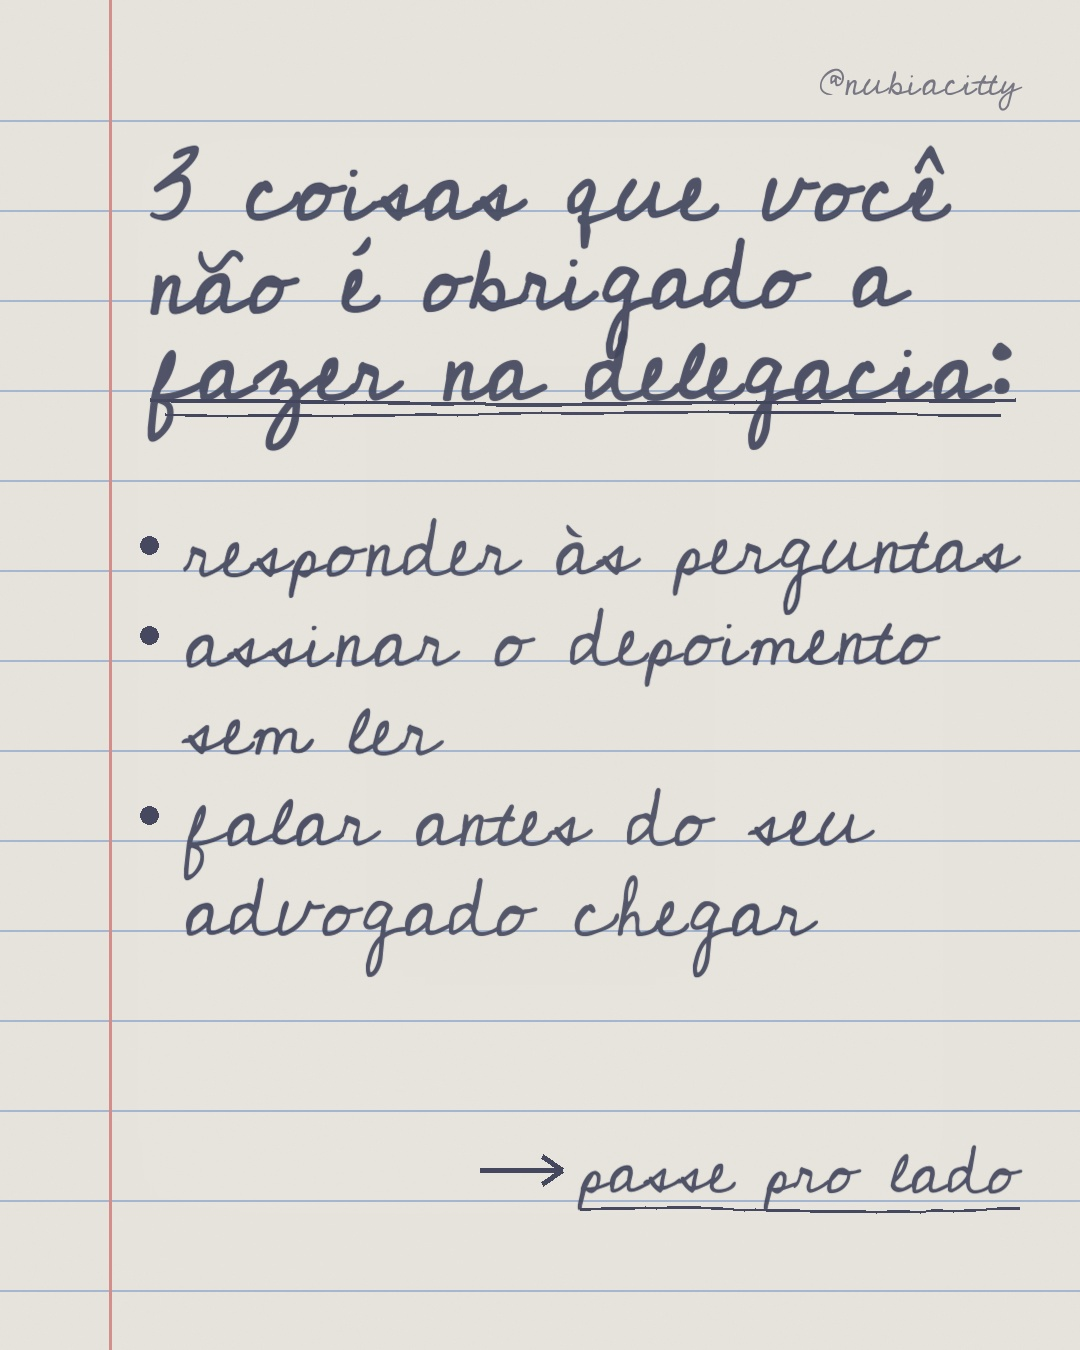
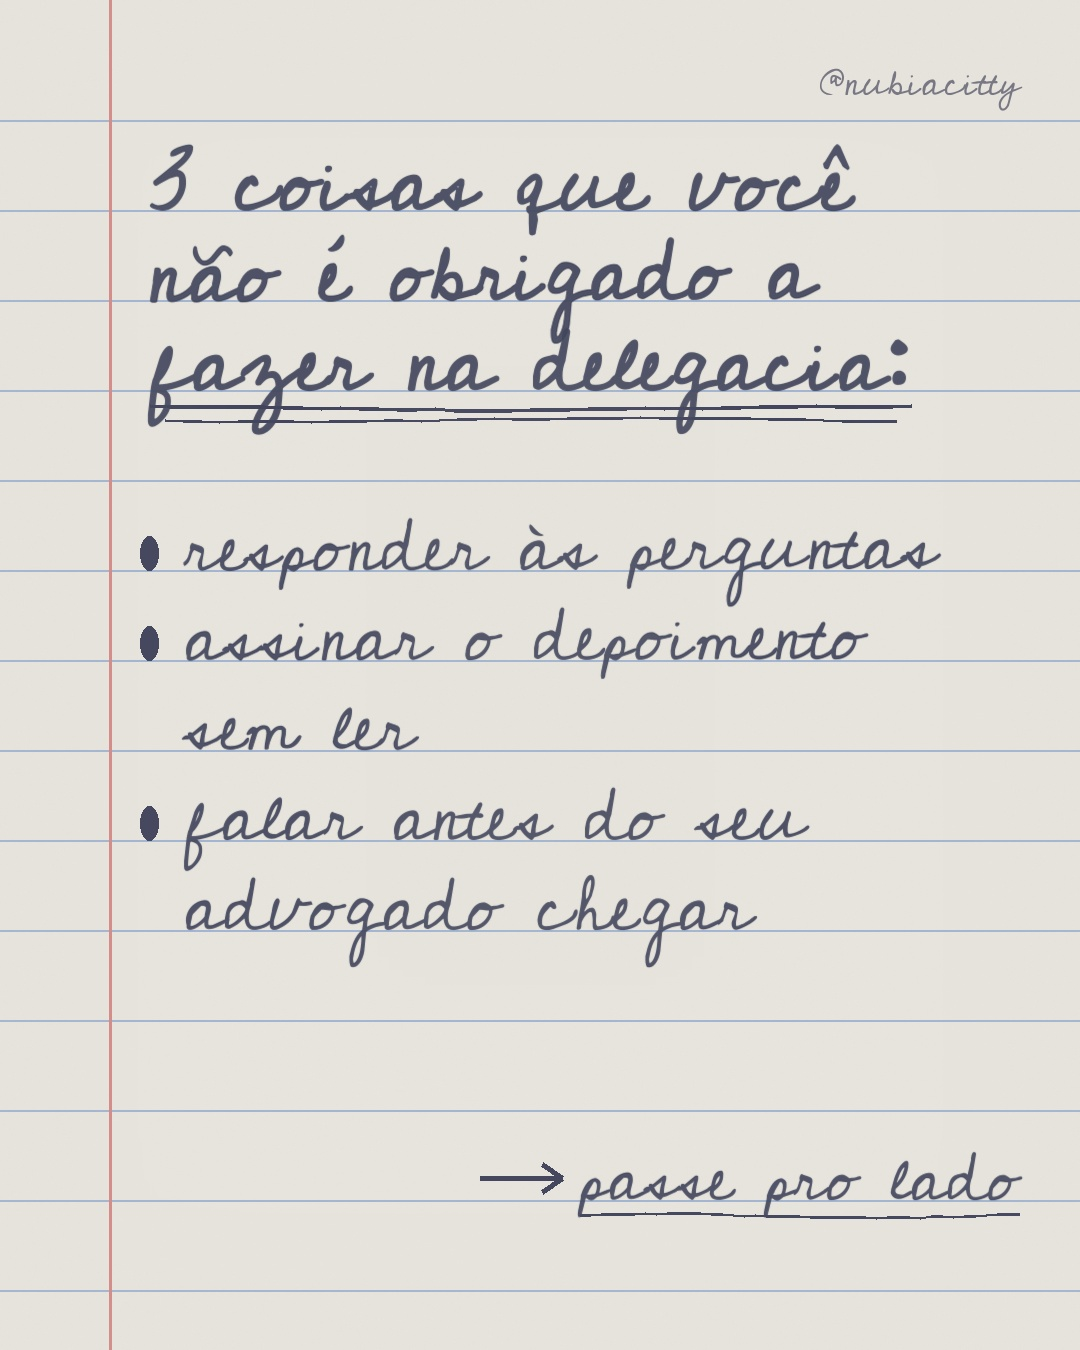
Caderno: letra apoiada nas linhas
Claude-Session: https://claude.ai/code/session_01D3NFYJzeTLmuJ1KpzmkBCa

diff --git a/tools/edicao/caderno/render.py b/tools/edicao/caderno/render.py
@@ -29,9 +29,10 @@ def text(d,xy,s,size,bold=False,fill=INK,maxw=None):
     L=f.getlength(s); h=int(size*1.6)
     lay=Image.new('RGBA',(int(L)+40,h+40),(0,0,0,0)); ld=ImageDraw.Draw(lay)
     ld.text((20,20),s,font=f,fill=fill+(235,),stroke_width=(1 if bold else 0),stroke_fill=fill+(235,))
-    lay=lay.rotate(random.uniform(-0.7,0.7),resample=Image.BICUBIC,expand=False)
+    lay=lay.rotate(random.uniform(-0.35,0.35),resample=Image.BICUBIC,expand=False)
     lay=lay.filter(ImageFilter.GaussianBlur(0.35))
-    CANVAS[0].alpha_composite(lay,(int(xy[0])-20,int(xy[1]-0.31*size)-20+int(random.uniform(-2,2))))
+    asc=f.getmetrics()[0]
+    CANVAS[0].alpha_composite(lay,(int(xy[0])-20,int(xy[1]-asc)-20+int(random.uniform(-1,1))))
     return L
 def sign(d): 
     f=ImageFont.truetype(F5,40); s='@nubiacitty'; d.text((W-60-f.getlength(s),45),s,font=f,fill=(90,90,110))
@@ -46,25 +47,25 @@ def finish(im):
 def cover(title,items,out,seed):
     im=paper(seed); d=ImageDraw.Draw(im); r=1
     for k,line in enumerate(title):
-        L=text(d,(150,row(r)-84),line,100,True)
-        if k==len(title)-1: wobble_line(d,150,row(r)+12,150+L,4,2,seed); wobble_line(d,165,row(r)+24,150+L-15,3,2,seed+2)
+        L=text(d,(150,row(r)),line,88,True)
+        if k==len(title)-1: wobble_line(d,150,row(r)+18,150+L,4,2,seed); wobble_line(d,165,row(r)+30,150+L-15,3,2,seed+2)
         r+=1
     r+=1
     for it in items:
         lines=it if isinstance(it,list) else [it]
-        d.ellipse((140,row(r)-34,158,row(r)-16),fill=INK)
-        for l in lines: text(d,(185,row(r)-72),l,84); r+=1
+        d.ellipse((140,row(r)-34,158,row(r)),fill=INK)
+        for l in lines: text(d,(185,row(r)),l,76); r+=1
     r=max(r+1,12)
-    L=text(d,(W-500,row(r)-72),'passe pro lado',76)
-    yy=row(r)-30
+    L=text(d,(W-500,row(r)),'passe pro lado',70)
+    yy=row(r)-22
     d.line((W-600,yy,W-520,yy),fill=INK,width=5); d.line((W-538,yy-14,W-518,yy),fill=INK,width=5); d.line((W-538,yy+14,W-518,yy),fill=INK,width=5)
-    wobble_line(d,W-500,row(r)+10,W-500+L,3,2,seed+5)
+    wobble_line(d,W-500,row(r)+16,W-500+L,3,2,seed+5)
     sign(d); finish(im).save(out,quality=95)
 def explain(blocks,out,seed):
     im=paper(seed); d=ImageDraw.Draw(im); r=1
     for head,body in blocks:
-        L=text(d,(150,row(r)-76),head,84,True); wobble_line(d,150,row(r)+8,150+L,3,2,seed); r+=1
-        for l in body: text(d,(150,row(r)-62),l,66); r+=1
+        L=text(d,(150,row(r)),head,76,True); wobble_line(d,150,row(r)+16,150+L,3,2,seed); r+=1
+        for l in body: text(d,(150,row(r)),l,62); r+=1
         r+=0.0
     sign(d); finish(im).save(out,quality=95)
 def final(lines,out,seed,photo='/home/user/Nc-insta/links/foto.png'):
@@ -72,9 +73,8 @@ def final(lines,out,seed,photo='/home/user/Nc-insta/links/foto.png'):
     p=Image.open(photo).convert('RGB'); s=min(p.size); p=p.crop(((p.width-s)//2,0,(p.width-s)//2+s,s)).resize((380,380))
     m=Image.new('L',(380,380),0); ImageDraw.Draw(m).ellipse((0,0,380,380),fill=255)
     im.paste(p,((W-380)//2,140),m); d.ellipse(((W-380)//2-6,134,(W+380)//2+6,526),outline=INK,width=4)
-    y=row(6)-70
-    for l,sz,b in lines:
-        f=ImageFont.truetype(F7 if b else F5,sz); x=(W-f.getlength(l))/2; d.text((x,y),l,font=f,fill=INK); y+=LS
+    for i,(l,sz,b) in enumerate(lines):
+        f=ImageFont.truetype(F5,sz); x=(W-f.getlength(l))/2; text(d,(x,row(6+i)),l,sz,b)
     sign(d); finish(im).save(out,quality=95)
 spec=json.load(open(sys.argv[1]))
 for c in spec:
